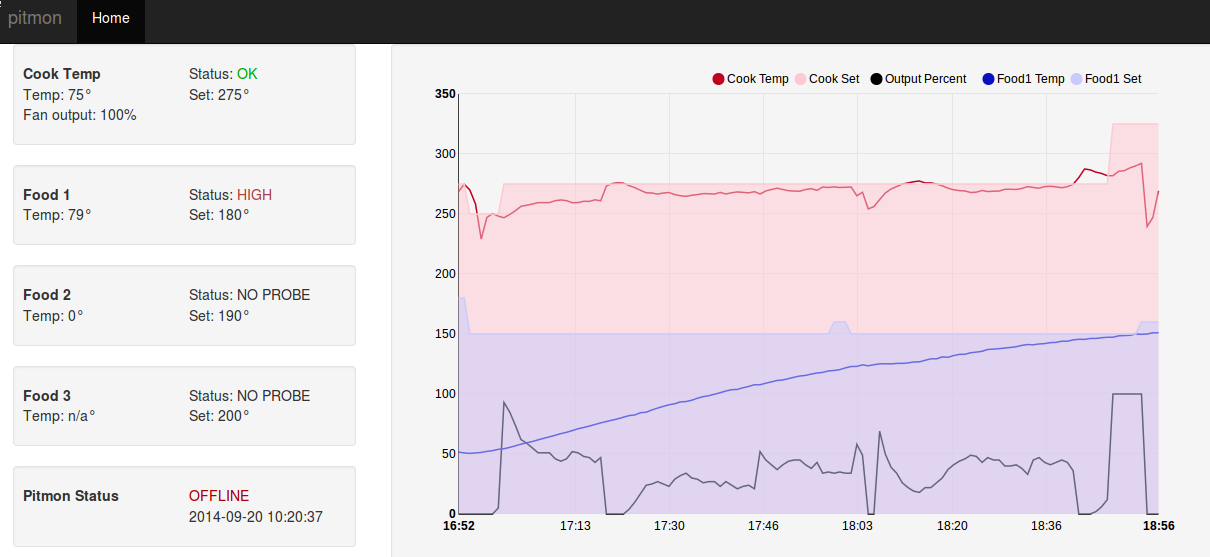
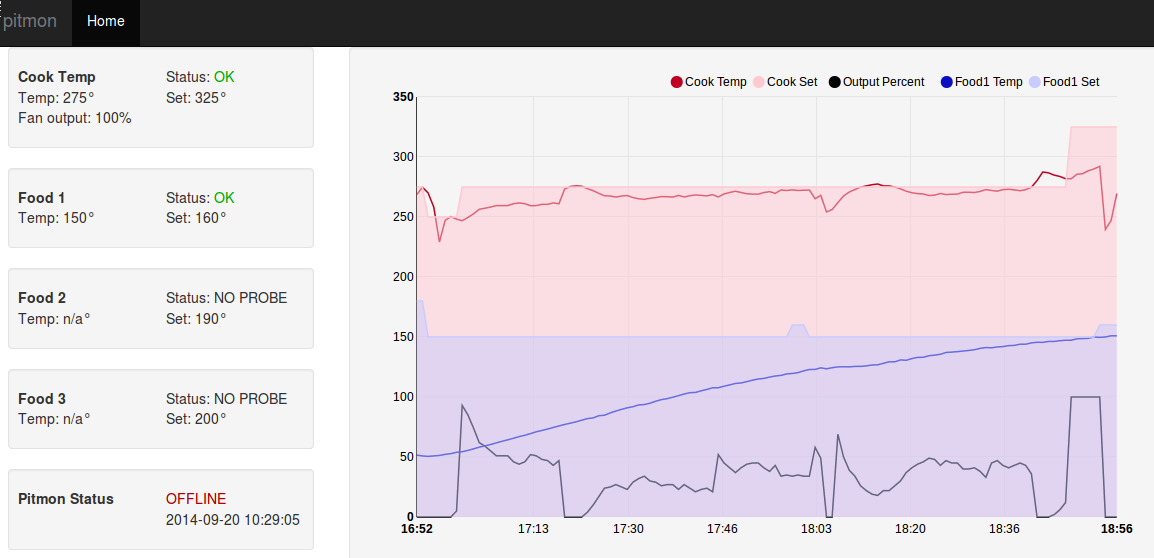
Fix food2 temp and use a more representative screenshot

diff --git a/static/js/pitmon.js b/static/js/pitmon.js
@@ -51,7 +51,6 @@ function update_data() {
             } else {
                 $("#food2_temp").html("n/a");
             }
-            $("#food2_temp").html(data["FOOD2_TEMP"]);
             $("#food2_set").html(data["FOOD2_SET"]);
 
             $("#food3_name").html(data["FOOD3_NAME"]);
